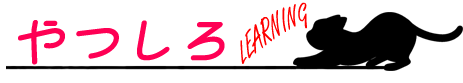
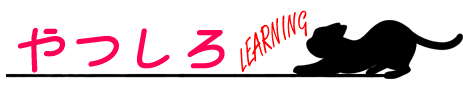
ヘッダー　上余白

Changed region(s): [[0.0, 0.0241, 1.0, 0.9398]]

diff --git a/static/css/style_sp.css b/static/css/style_sp.css
@@ -18,7 +18,7 @@ body {
 
 header {
     display: center;
-    width: 470px;
+    width: 100%;
     background-color: pink;
 }
 
